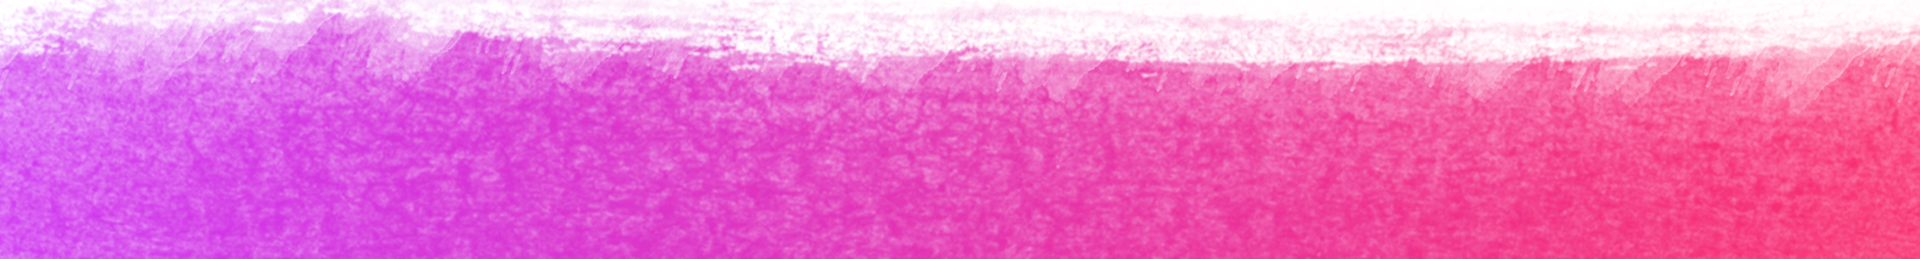
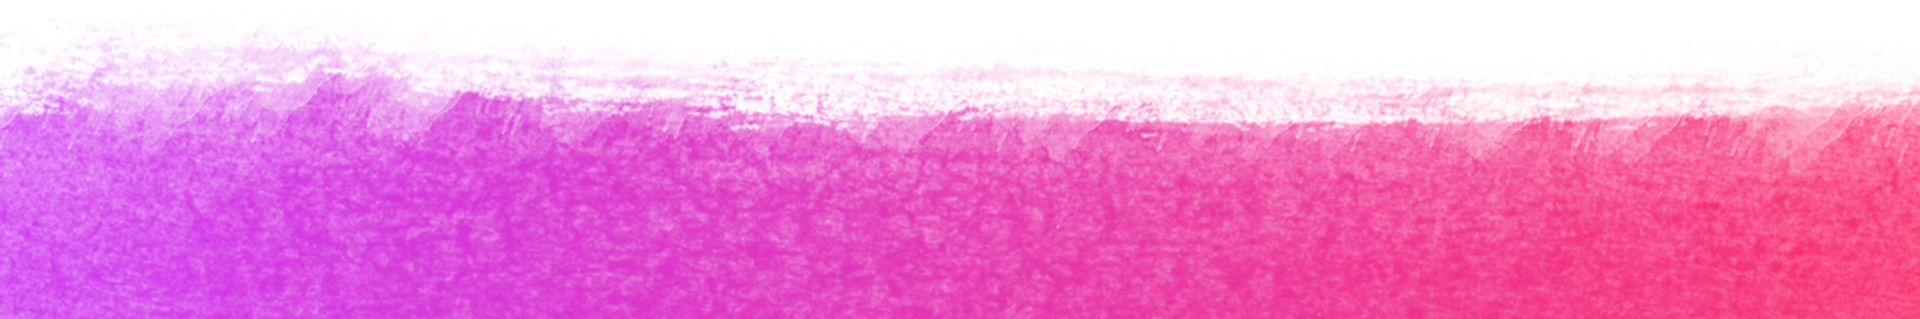
Завершил оформление элемента footer

diff --git a/app/index.html b/app/index.html
@@ -160,16 +160,16 @@
                     <div class="logo__wrap"><img class="logo__img" src="images/logo_white.png" alt=""/></div>
                 </div>
                 <nav class="menu col-span-6">
-                    <ul class="menu__list menu__list_inverse">
-                        <li class="menu__item"><a class="link menu__link" href="#">Services</a></li>
-                        <li class="menu__item"><a class="link menu__link" href="#">About us</a></li>
-                        <li class="menu__item"><a class="link menu__link" href="#">Reviews</a></li>
-                        <li class="menu__item"><a class="link menu__link" href="#">Portfolio</a></li>
-                        <li class="menu__item"><a class="link menu__link" href="#">Contact</a></li>
+                    <ul class="menu__list">
+                        <li class="menu__item"><a class="link menu__link menu__link_inverse" href="#">Services</a></li>
+                        <li class="menu__item"><a class="link menu__link menu__link_inverse" href="#">About us</a></li>
+                        <li class="menu__item"><a class="link menu__link menu__link_inverse" href="#">Reviews</a></li>
+                        <li class="menu__item"><a class="link menu__link menu__link_inverse" href="#">Portfolio</a></li>
+                        <li class="menu__item"><a class="link menu__link menu__link_inverse" href="#">Contact</a></li>
                     </ul>
                 </nav>
                 <div class="contact col-start-9 col-span-4">
-                    <ul class="contact__list contact__link_inverse">
+                    <ul class="contact__list contact__list_inverse">
                         <li class="contact__item"><span class="contact__phone">+ ( 373 ) 60 817 818</span></li>
                         <li class="contact__item"><a class="link contact__link contact__link_twitter" href="#"></a></li>
                         <li class="contact__item"><a class="link contact__link contact__link_facebook" href="#"> </a></li>

diff --git a/app/css/style.css b/app/css/style.css
@@ -747,6 +747,9 @@ body {
   font-size: 1.8rem;
   padding: 0.5rem 0;
 }
+.menu__link_inverse {
+  color: #ffffff;
+}
 .menu__link_active {
   border-bottom: 0.2rem solid #ffffff;
 }
@@ -758,13 +761,18 @@ body {
   grid-auto-flow: column;
   justify-content: space-between;
 }
+.contact__list_inverse {
+  color: #ffffff;
+}
+.contact__list_inverse .contact__link {
+  background-image: url(../images/social_media_white.png);
+}
 .contact__item {
   padding: 0.5rem 0;
 }
 .contact__phone {
   font-weight: 600;
   font-size: 1.8rem;
-  color: #3a4142;
   margin-right: 4rem;
   margin-left: 3.5rem;
 }
@@ -792,11 +800,13 @@ body {
   padding: 2.4rem 0;
 }
 .footer {
-  background-image: linear-gradient(45deg, #a72b8f 0%, #0169b4 100%);
+  background-image: url(../images/footer_background.PNG);
+  background-size: cover;
 }
 .footer__container {
   align-items: center;
-  padding: 2.3rem 0;
+  padding-top: 17rem;
+  padding-bottom: 4.5rem;
 }
 .home {
   padding: 41rem 0;

diff --git a/app/blocks/contact/contact.less b/app/blocks/contact/contact.less
@@ -7,6 +7,14 @@
         display: grid;
         grid-auto-flow: column;
         justify-content: space-between;
+
+        &_inverse{
+            color: @color-light;
+
+            .contact__link{
+                background-image:url(../images/social_media_white.png);
+            }
+        }
     }
 
     &__item{
@@ -16,7 +24,6 @@
     &__phone{
         font-weight: @font-weight-semibold;
         font-size: 1.8rem;
-        color: @color-bluegray;
 
         margin-right: 4rem;
         margin-left: 3.5rem;
@@ -28,6 +35,8 @@
         background-repeat: no-repeat;
         width: 2.5rem;
         height: 2rem;
+
+
 
         &_twitter{
             background-position: 0.3rem center;

diff --git a/app/blocks/footer/footer.less b/app/blocks/footer/footer.less
@@ -1,8 +1,11 @@
 .footer{
-    background-image: linear-gradient(45deg, #a72b8f 0%, #0169b4 100%);
+    background-image: url(../images/footer_background.PNG);
+    background-size: cover;
     
     &__container{
         align-items: center;
-        padding: 2.3rem 0;
+        padding-top: 17rem;
+        padding-bottom: 4.5rem;
+        
     }
 }

diff --git a/app/blocks/menu/menu.less b/app/blocks/menu/menu.less
@@ -9,6 +9,7 @@
         grid-auto-flow: column;
         justify-content: space-around;
         
+
     }
 
     &__item{
@@ -20,6 +21,10 @@
 
         padding: 0.5rem 0;
 
+        &_inverse{
+            color: @color-light;
+        }
+        
         &_active{
             border-bottom: 0.2rem solid @color-light;
         }
